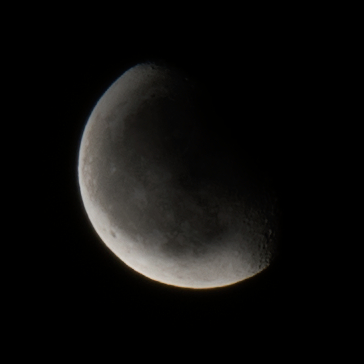
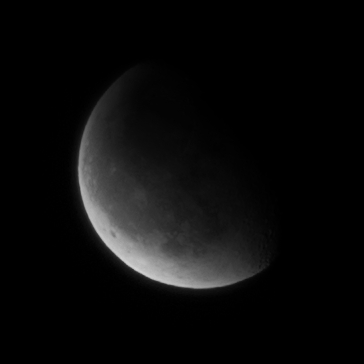
createParticles function imprv more realistic moon - moon scale function

Changed region(s): [[0.2115, 0.1813, 0.4533, 0.5137], [0.4835, 0.6648, 0.7253, 0.8159], [0.4231, 0.7555, 0.4835, 0.7857]]

diff --git a/src/utils/createSimpleParticles.js b/src/utils/createSimpleParticles.js
@@ -1,6 +1,6 @@
 import * as THREE from "three";
 
-// This createSimpleParticles function inspired from SimonDevYoutube
+// This createParticles function inspired from SimonDevYoutube
 // https://github.com/simondevyoutube/ThreeJS_Tutorial_ParticleSystems/blob/master/main.js
 // VertexShader and FragmentShader directly copied from that repo.
 const _VS = `
@@ -44,27 +44,31 @@ const defaultTexture = new THREE.DataTexture(
 defaultTexture.needsUpdate = true;
 
 /**
- * Creates and manages a simple GPU‐accelerated particle system.
- * Particles are emitted from a box area around yStart, move with velocity,
- * and fade out over their lifetime. Uses custom shaders for size, rotation,
- * and color tinting.
+ * Creates a GPU-accelerated particle system using Three.js.
+ * Particles emit around a start position (`startPozs`), move upwards with velocity,
+ * and optionally grow or fade as they move. Custom shaders control particle size,
+ * rotation, and color tint.
  *
  * @param {Object} options
- * @param {THREE.Object3D} options.parent    – Three.js scene or group to attach the particle Points.
- * @param {THREE.Color|number|string} options.color    – Base tint color for all particles.
- * @param {number} [options.opacity=1]      - Default 1
- * @param {number} [options.maxCount=200]   – Max number of particles to allocate.
- * @param {number} [options.spawnRate=50]   – How many particles spawn per second.
- * @param {number} [options.area=1]         – Half‐width of the spawning box (x/z direction).
- * @param {number} [options.size=0.05]      – Base size of each particle (in world units).
- * @param {number} [options.yStart=0]       – Y‐coordinate where new particles appear.
+ * @param {THREE.Object3D} options.parent           – Parent object (scene or group) to attach particles.
+ * @param {THREE.Color|number|string} options.color – Base color for particles.
+ * @param {number} [options.opacity=1]              – Starting opacity for particles.
+ * @param {number} [options.maxCount=200]           – Maximum particle count.
+ * @param {number} [options.spawnRate=50]           – Particle spawn rate per second.
+ * @param {number} [options.area=1]                 – Spawn area size around start position (X/Z).
+ * @param {number} [options.size=0.05]              – Base particle size.
+ * @param {Array<number>} [options.startPozs=[0,0,0]] – XYZ coordinates of initial particle spawn center.
  * @param {Array<THREE.Texture>|THREE.Texture|null} [options.textures=null]
- *                                           – Optional array of textures to randomly assign.
- * @param {THREE.Camera} options.camera    – Camera used to compute size attenuation.
+ *                                                  – Optional particle textures.
+ * @param {Array<THREE.Texture>|THREE.Texture|null} [options.maskTextures=null]
+ *                                                  – Optional mask textures (currently unused).
+ * @param {THREE.Camera} options.camera             – Camera reference for particle scaling.
+ * @param {number} [options.sizeGrowth=0]           – Particle size increase rate with height.
+ * @param {number} [options.fadeRate=0]             – Opacity fade rate with height.
  *
- * @returns {Object} controller with `.start()` and `.stop()` methods to control emission.
+ * @returns {Object} Particle system with `.points` (THREE.Points) and `.step(delta)` to update per frame.
  */
-export function createSimpleParticles({
+export function createParticles({
   parent,
   color,
   opacity = 1,
@@ -72,11 +76,12 @@ export function createSimpleParticles({
   spawnRate = 50,
   area = 1,
   size = 0.05,
-  yStart = 0,
+  startPozs = [0, 0, 0],
   textures = null,
   maskTextures = null,
   camera,
   sizeGrowth = 0,
+  fadeRate = 0,
 }) {
   const textureArray = textures
     ? Array.isArray(textures)
@@ -91,33 +96,26 @@ export function createSimpleParticles({
 
   const numVariants = Math.max(textureArray.length, maskArray.length, 1);
 
-  const positions = new Float32Array(maxCount * 3);
-  const velocities = new Float32Array(maxCount * 3);
+  const pos = new Float32Array(maxCount * 3);
+  const v = new Float32Array(maxCount * 3);
   const variants = new Uint8Array(maxCount);
 
-  const sizesArray = new Float32Array(maxCount);
+  const sizeArr = new Float32Array(maxCount);
   const anglesArray = new Float32Array(maxCount);
-  const coloursArray = new Float32Array(maxCount * 4);
+  const colsArr = new Float32Array(maxCount * 4);
   const baseCol = new THREE.Color(color);
 
   for (let i = 0; i < maxCount; i++) {
     variants[i] = i % numVariants;
     const i3 = i * 3;
-    positions[i3 + 0] = (Math.random() * 2 - 1) * area;
-    positions[i3 + 1] = yStart;
-    positions[i3 + 2] = (Math.random() * 2 - 1) * area;
-    velocities[i3 + 0] = 0;
-    velocities[i3 + 1] = Math.random() * 0.5 + 0.2;
-    velocities[i3 + 2] = 0;
 
-    sizesArray[i] = size;
+    startPos(startPozs, pos, i3, area);
+    startV(v, i3, true);
+
+    sizeArr[i] = size;
     anglesArray[i] = Math.random() * Math.PI * 2;
 
-    const i4 = i * 4;
-    coloursArray[i4 + 0] = baseCol.r;
-    coloursArray[i4 + 1] = baseCol.g;
-    coloursArray[i4 + 2] = baseCol.b;
-    coloursArray[i4 + 3] = opacity;
+    colUpt(i, colsArr, baseCol, opacity);
   }
 
   const pointsArr = [];
@@ -153,14 +151,14 @@ export function createSimpleParticles({
     });
 
     const geometry = new THREE.BufferGeometry();
-    geometry.setAttribute("position", new THREE.BufferAttribute(positions, 3));
+    geometry.setAttribute("position", new THREE.BufferAttribute(pos, 3));
     geometry.setAttribute("variant", new THREE.BufferAttribute(variants, 1));
-    geometry.setAttribute("size", new THREE.BufferAttribute(sizesArray, 1));
+    geometry.setAttribute("size", new THREE.BufferAttribute(sizeArr, 1));
     geometry.setAttribute("angle", new THREE.BufferAttribute(anglesArray, 1));
-    geometry.setAttribute("colour", new THREE.BufferAttribute(coloursArray, 4));
+    geometry.setAttribute("colour", new THREE.BufferAttribute(colsArr, 4));
 
     const points = new THREE.Points(geometry, material);
-    points.renderOrder = 999;
+    points.renderOrder = 9;
     parent.add(points);
     pointsArr.push(points);
   }
@@ -173,33 +171,56 @@ export function createSimpleParticles({
     for (let s = 0; s < toSpawn; s++) {
       const i = nextIndex % maxCount;
       const i3 = i * 3;
-      positions[i3 + 0] = (Math.random() * 2 - 1) * area;
-      positions[i3 + 1] = yStart;
-      positions[i3 + 2] = (Math.random() * 2 - 1) * area;
-      velocities[i3 + 0] = (Math.random() - 0.5) * 0.2;
-      velocities[i3 + 1] = Math.random() * 0.5 + 0.2;
-      velocities[i3 + 2] = (Math.random() - 0.5) * 0.2;
+
+      startPos(startPozs, pos, i3, area);
+      startV(v, i3);
+
       variants[i] = i % numVariants;
       nextIndex++;
     }
 
     for (let i = 0; i < maxCount; i++) {
       const i3 = i * 3;
-      positions[i3 + 0] += velocities[i3 + 0] * delta;
-      positions[i3 + 1] += velocities[i3 + 1] * delta;
-      positions[i3 + 2] += velocities[i3 + 2] * delta;
+      pos[i3] += v[i3] * delta;
+      pos[i3 + 1] += v[i3 + 1] * delta;
+      pos[i3 + 2] += v[i3 + 2] * delta;
 
-      const y = positions[i3 + 1];
-      sizesArray[i] = Math.max(0.01, size + y * sizeGrowth);
+      const y = pos[i3 + 1];
+
+      if (sizeGrowth !== 0) sizeArr[i] = size + y * sizeGrowth;
+
+      if (fadeRate !== 0) {
+        const newOp = opacity - y * fadeRate;
+        colUpt(i, colsArr, baseCol, Math.max(0, newOp));
+      }
     }
 
     for (const p of pointsArr) {
       p.geometry.attributes.position.needsUpdate = true;
-      if (sizeGrowth !== 0) {
-        p.geometry.attributes.size.needsUpdate = true;
-      }
+      p.geometry.attributes.size.needsUpdate = sizeGrowth !== 0;
+      p.geometry.attributes.colour.needsUpdate = fadeRate !== 0;
     }
   }
 
   return { points: pointsArr, step };
+}
+
+function startPos(startPozs = [], pos = [], i3 = 0, area) {
+  pos[i3] = startPozs[0] + (Math.random() * 2 - 1) * area;
+  pos[i3 + 1] = startPozs[1];
+  pos[i3 + 2] = startPozs[2] + (Math.random() * 2 - 1) * area;
+}
+
+function startV(v = [], i3 = 0, f = false) {
+  v[i3] = f ? 0 : (Math.random() - 0.5) * 0.2;
+  v[i3 + 1] = Math.random() * 0.5 + 0.2;
+  v[i3 + 2] = f ? 0 : (Math.random() - 0.5) * 0.2;
+}
+
+function colUpt(i, colsArr, baseCol, opacity) {
+  const i4 = i * 4;
+  colsArr[i4] = baseCol.r;
+  colsArr[i4 + 1] = baseCol.g;
+  colsArr[i4 + 2] = baseCol.b;
+  colsArr[i4 + 3] = opacity;
 }

diff --git a/src/script.js b/src/script.js
@@ -7,7 +7,7 @@ import {
   spawnMeshes,
   addRoots,
   centerGeometryXZ,
-  createSimpleParticles,
+  createParticles,
 } from "./utils/_index.js";
 import Stats from "stats.js";
 import {
@@ -106,10 +106,6 @@ loadingManager.onLoad = () => {
   if (introModal) {
     introModal.classList.remove("hidden");
     introModal.classList.add("active");
-    setTimeout(() => {
-      introModal.classList.remove("active");
-      introModal.classList.add("hidden");
-    }, 15000);
   }
 };
 
@@ -133,8 +129,8 @@ gltfLoader.setDRACOLoader(dracoLoader);
 
 gltfLoader.load("./abandoned_house/abandonedHouse.gltf", (gltf) => {
   const house = gltf.scene;
-  house.position.set(0.02, 0.25, -5);
-  house.scale.setScalar(1.2);
+  house.position.set(0.02, 0.2, -6);
+  house.scale.setScalar(1.3);
   gltf.scene.traverse((child) => {
     if (child.isMesh) {
       child.castShadow = true;
@@ -195,8 +191,6 @@ const bushes = {
 gltfLoader.load(
   "./burchellii/bushes.gltf",
   (gltf) => {
-    console.log(gltf);
-
     bushes.bushGLTF = gltf;
     bushes.bushBaseMeshes = [
       gltf.scene.children[0],
@@ -495,29 +489,52 @@ skyUniforms["mieDirectionalG"].value = 0;
 skyUniforms["sunPosition"].value.set(0, -0.08, -1);
 
 const moonTexture = texLoader.load("/moon.jpg");
+
+moonTexture.encoding = THREE.sRGBEncoding;
+
 const emissiveMap = texLoader.load("/moon-emissive.jpg");
+
+emissiveMap.encoding = THREE.LinearEncoding;
+
+const alphaMap = texLoader.load("/moon.jpg");
+
+alphaMap.minFilter = THREE.LinearFilter;
+alphaMap.magFilter = THREE.LinearFilter;
+alphaMap.generateMipmaps = false;
+
+alphaMap.encoding = THREE.LinearEncoding;
+
 const moon = new THREE.Mesh(
-  new THREE.PlaneGeometry(1.7, 1.7),
+  new THREE.PlaneGeometry(2, 2),
   new THREE.MeshPhysicalMaterial({
     map: moonTexture,
     transparent: true,
-    blending: THREE.AdditiveBlending,
     color: 0xffffff,
     opacity: 1,
-    alphaMap: moonTexture,
+    alphaMap: alphaMap,
     emissive: 0xffffff,
     emissiveIntensity: 10,
     toneMapped: false,
     emissiveMap: emissiveMap,
+    sizeAttenuation: false,
   })
 );
 
-const moonDistance = directionalLight.position.length() * 2;
+const moonDistance = directionalLight.position.length() * 3;
 const moonDirection = directionalLight.position.clone().normalize();
 moon.position.copy(moonDirection.multiplyScalar(moonDistance));
 
 moon.lookAt(camera.position);
 scene.add(moon);
+
+const desiredAngularSize = THREE.MathUtils.degToRad(0.75);
+
+function updateMoonScale() {
+  const d = camera.position.distanceTo(moon.position);
+
+  const worldDiameter = 2 * d * Math.tan(desiredAngularSize);
+  moon.scale.setScalar(worldDiameter);
+}
 
 //
 //#endregion
@@ -704,20 +721,17 @@ const maskTextures = flameAlphaPath.map((p) => {
   return tex;
 });
 
-const flame = createSimpleParticles({
+const flame = createParticles({
   parent: scene,
   area: 0.21,
-  size: 0.4,
+  size: 0.41,
   maxCount: 9,
   spawnRate: 17,
-  yStart: 0.45,
+  startPozs: [0, 0.45, 1.5],
   textures: flameTextures,
   maskTextures,
   camera,
   opacity: 0.19,
-});
-flame.points.forEach((p) => {
-  p.position.z = 1.5;
 });
 
 const smokePath = [
@@ -729,32 +743,31 @@ const smokePath = [
 
 const smokeTextures = smokePath.map((p) => texLoader.load(p));
 
-const smoke = createSimpleParticles({
+const smoke = createParticles({
   parent: scene,
-  area: 0.3,
-  size: 0.7,
+  area: 0.2,
+  size: 0.6,
   maxCount: 30,
   spawnRate: 2,
-  yStart: 1.1,
+  startPozs: [0, 1.3, 1.5],
   textures: smokeTextures,
   camera,
   opacity: 0.4,
   color: 0x444444,
-  sizeGrowth: 0.3,
+  sizeGrowth: 0.5,
+  fadeRate: 0.05,
 });
-smoke.points.forEach((p) => (p.position.z = 1.5));
 
-const sparks = createSimpleParticles({
+const sparks = createParticles({
   parent: scene,
   color: "#fff",
   area: 0.3,
-  size: 0.001,
+  size: 0.007,
   maxCount: 100,
   spawnRate: 11,
-  yStart: 0.15,
+  startPozs: [0, 0.15, 1.5],
   camera,
 });
-sparks.points.forEach((p) => (p.position.z = 1.5));
 
 //
 
@@ -823,7 +836,8 @@ const tick = () => {
   clampCameraPosition();
 
   const delta = timer.getDelta();
-  moon.lookAt(camera.position);
+
+  updateMoonScale();
 
   // Shadow enabled
   sparks.step(delta);
@@ -862,6 +876,7 @@ const tick = () => {
   window.requestAnimationFrame(tick);
 };
 
+// window.addEventListener("click", tick);
 tick();
 
 //

diff --git a/src/utils/_index.js b/src/utils/_index.js
@@ -1,5 +1,5 @@
 export { spawnMeshes } from "./spawnMeshes.js";
 export { addRoots } from "./addRoots.js";
 export { centerGeometryXZ } from "./centerGeometry.js";
-export { createSimpleParticles } from "./createSimpleParticles.js";
+export { createParticles } from "./createSimpleParticles.js";
 export { controlHelper } from "./controlHelper.js";
